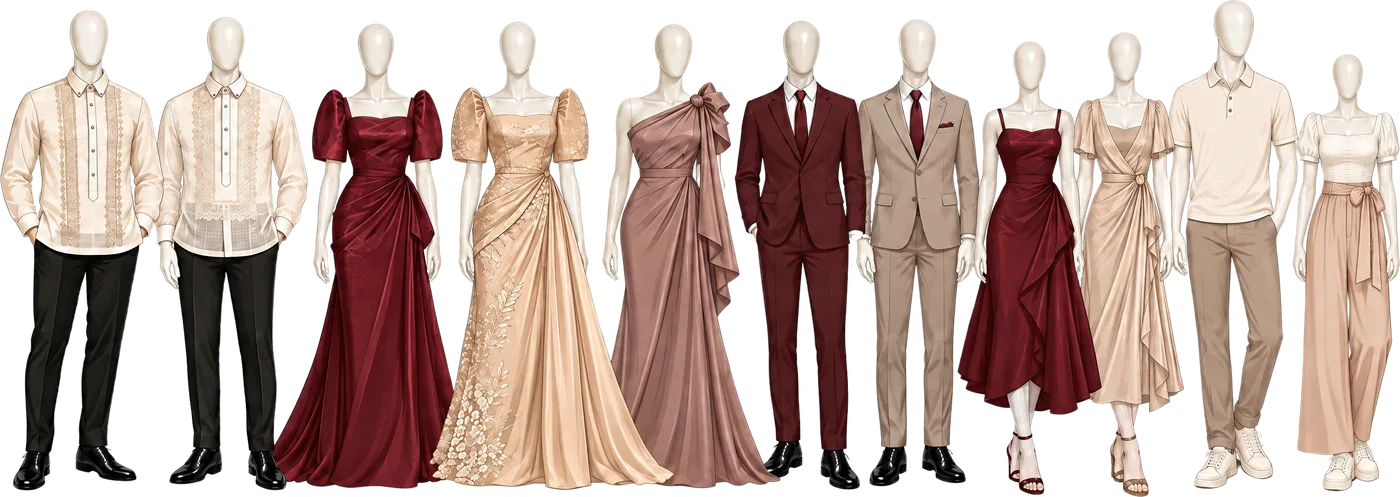
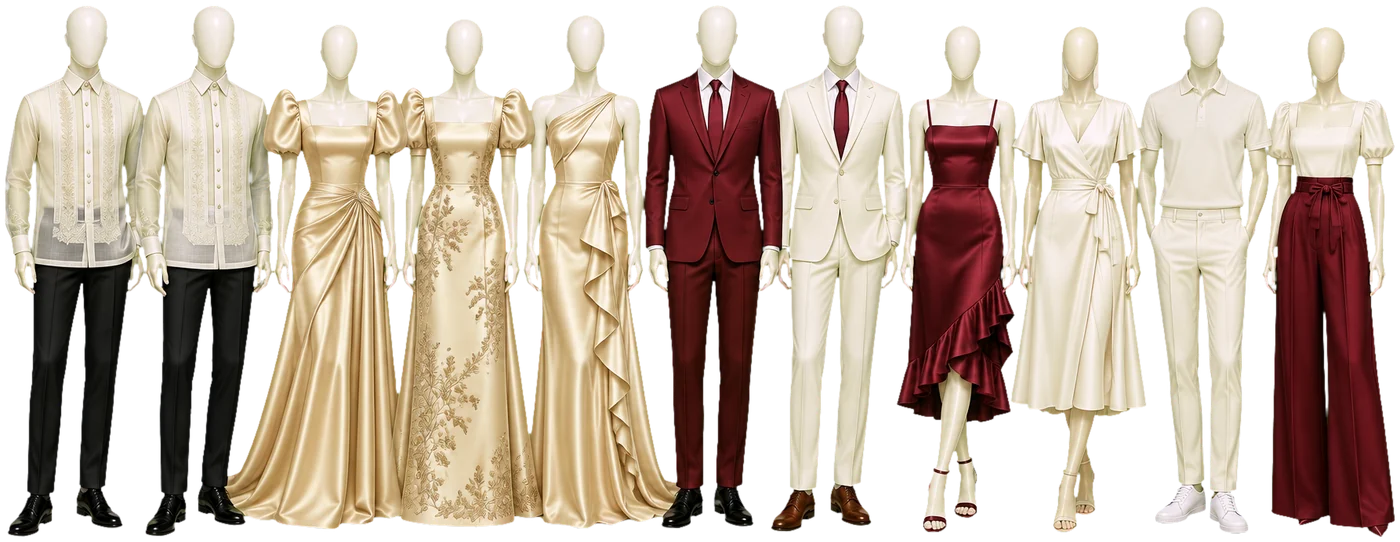
Recolor outfit lookbook: champagne ninangs, cream barong ninongs, burgundy/cream guests
Regenerated the lineup via Figma image generation with taupe and mauve
removed, keyed to a transparent background, and re-exported at 1400w and
2600w. Updated the lookbook alt text and the img intrinsic height
(2600x1007) to match the new aspect ratio.

diff --git a/src/lib/site.ts b/src/lib/site.ts
@@ -344,7 +344,7 @@ export const V4 = {
     /** The outfit guide, in the order of the lines below it. */
     lookbook: {
       src: "/v4/dress-lookbook",
-      alt: "Outfit guide: ninongs in a cream barong with black trousers and shoes; ninangs in burgundy, champagne or taupe gowns; guests in burgundy or taupe suits, burgundy or champagne dresses, and smart cream-and-beige separates.",
+      alt: "Outfit guide: ninongs in a cream barong with black slacks and black shoes; ninangs in champagne gowns; guests in burgundy or cream suits, burgundy or cream dresses, and smart cream-and-burgundy separates.",
     },
     lines: [
       ["Ninongs:", "Barong and black shoes"],
